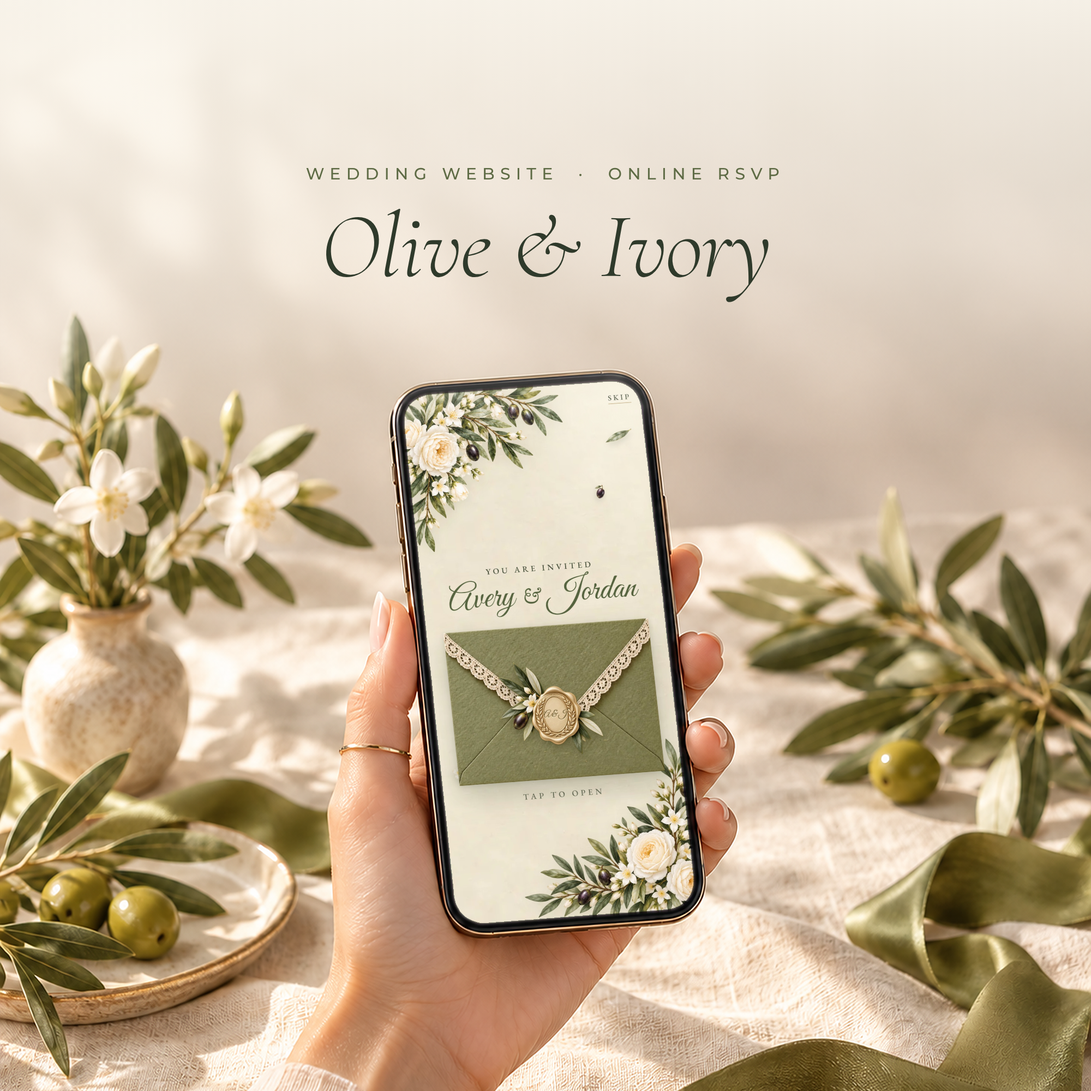
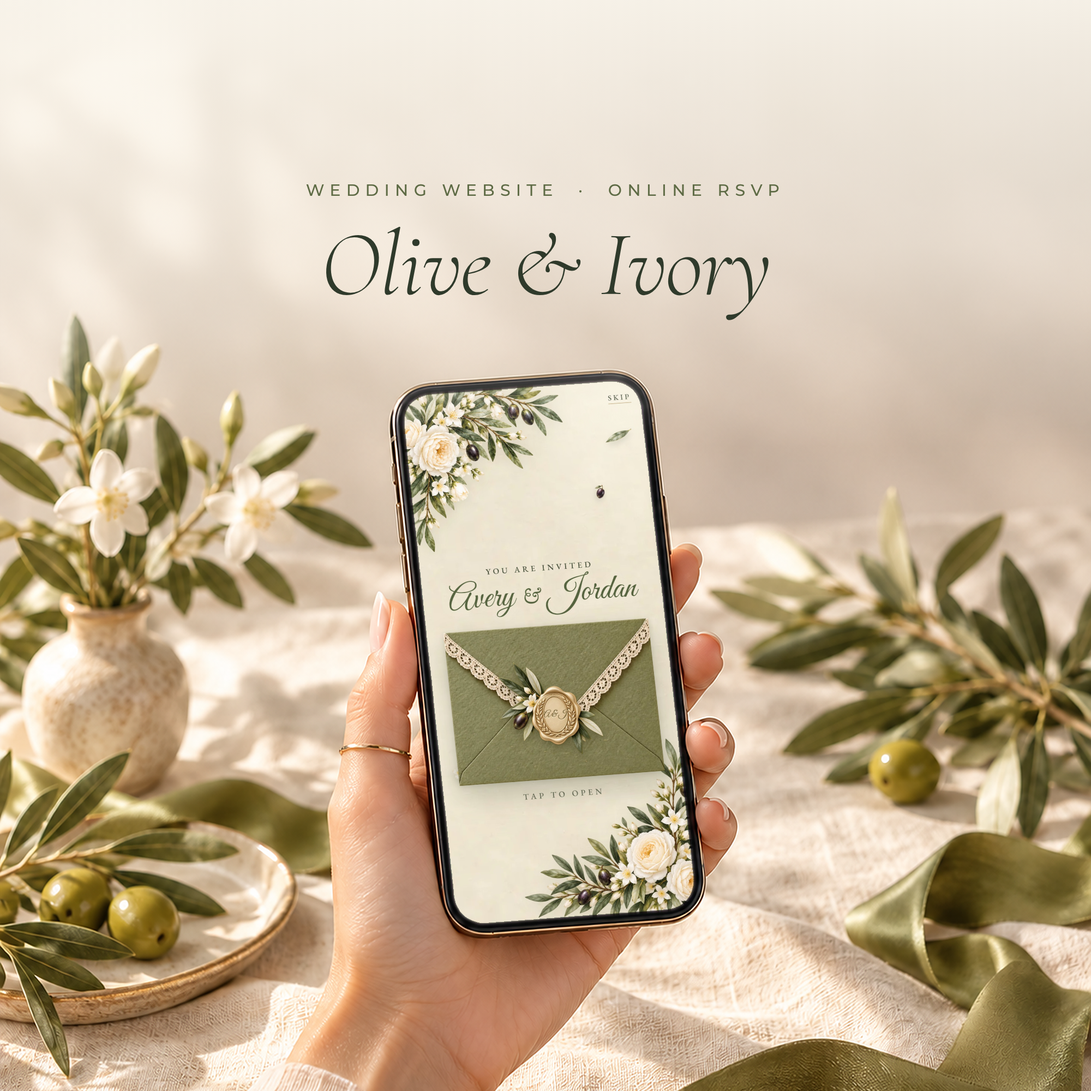
İlan görselleri v4: 5 tasarımın editoryal setleri (8 × 2000 px)
- Her tema için DPR 3 açılış kareleri (open_mid, open_card) elle seçildi; seçim opening_stills.json'da
- Uzun tasarım adları kapakta iki satır; 8. görselde yazı sütunu arkasında kâğıt geçişi (koyu masa sahneleri)

Claude-Session: https://claude.ai/code/session_01NL22v945FuPy8MhEt9Xdyu

Changed region(s): [[0.279, 0.155, 0.527, 0.279], [0.558, 0.155, 0.713, 0.279]]

diff --git a/tools/listing_editorial/templates/editorial.css b/tools/listing_editorial/templates/editorial.css
@@ -27,6 +27,9 @@ body {
 .veil-bottom { position: absolute; left: 0; right: 0; bottom: 0; height: var(--h, 520px);
   background: linear-gradient(to top, color-mix(in srgb, var(--paper) 90%, transparent) 0%,
               color-mix(in srgb, var(--paper) 50%, transparent) 60%, transparent 100%); }
+.veil-left { position: absolute; top: 0; bottom: 0; left: 0; width: var(--w, 1100px);
+  background: linear-gradient(to right, color-mix(in srgb, var(--paper) 94%, transparent) 0%,
+              color-mix(in srgb, var(--paper) 86%, transparent) 70%, transparent 100%); }
 .panel { position: absolute; top: 0; bottom: 0; background: var(--paper-img, none) center / cover, var(--paper); }
 .panel::after { content: ""; position: absolute; inset: 0; background: color-mix(in srgb, var(--paper) 55%, transparent); }
 

diff --git a/tools/listing_editorial/templates/01_cover.html b/tools/listing_editorial/templates/01_cover.html
@@ -2,5 +2,5 @@
 <div class="veil-top" style="--h:{{veil_h}}px"></div>
 <div class="abs center" style="left:0;right:0;top:{{text_top}}px">
   <div class="kicker">Wedding website &nbsp;·&nbsp; Online RSVP</div>
-  <div class="display" style="font-size:{{title_px}}px;margin-top:30px"><em>{{theme_name}}</em></div>
+  <div class="display" style="font-size:{{title_px}}px;line-height:1.04;margin-top:30px;white-space:pre-line"><em>{{title}}</em></div>
 </div>

diff --git a/tools/listing_editorial/templates/08_included.html b/tools/listing_editorial/templates/08_included.html
@@ -1,4 +1,5 @@
 <div class="bg" style="background-image:url({{scene.bg}})"></div>
+<div class="veil-left" style="--w:{{veil_w}}px"></div>
 <div class="abs" style="left:{{col_left}}px;top:{{col_top}}px;width:{{col_w}}px">
   <div class="kicker">What's included</div>
   <div class="display" style="font-size:116px;margin-top:28px">Your wedding<br><em>website</em></div>

diff --git a/tools/listing_editorial.py b/tools/listing_editorial.py
@@ -123,9 +123,16 @@ def build(t: lk.Theme, only: list[str] | None) -> list[Path]:
                 scene = Image.open(scene_file(t, "cover_hand_v2.png", "cover_hand.png"))
                 r0 = kz.ekran_bolgeleri(scene)[0]
                 k = 2000 / scene.width
-                place(scene, k, 0, 700 - r0["kutu"][1] * k, [shot(shots, "g01_envelope")], bg)
-                v.update({"scene.bg": bg.resolve().as_uri(), "veil_h": "820", "text_top": "330",
-                          "title_px": str(min(170, round(170 * 13 / max(13, len(t.name)))))})
+                # names up to 16 characters on one line; longer ones on two lines ("Vintage Airmail / Love Letter")
+                words = t.name.split()
+                if len(t.name) <= 16:
+                    title, size, screen_top = t.name, 170, 700
+                else:
+                    cut = min(range(1, len(words)), key=lambda i: abs(len(" ".join(words[:i])) - len(t.name) / 2))
+                    title, size, screen_top = " ".join(words[:cut]) + "\n" + " ".join(words[cut:]), 140, 820
+                place(scene, k, 0, screen_top - r0["kutu"][1] * k, [shot(shots, "g01_envelope")], bg)
+                v.update({"scene.bg": bg.resolve().as_uri(), "veil_h": str(screen_top + 120), "text_top": "330",
+                          "title": title, "title_px": str(size)})
             elif name == "02_opening":
                 scene = Image.open(scene_file(t, "three_phones.png"))
                 regs = kz.ekran_bolgeleri(scene)
@@ -182,8 +189,9 @@ def build(t: lk.Theme, only: list[str] | None) -> list[Path]:
                 col_w = placed[0]["kutu"][0] - 120 - 110
                 if col_w < 700:
                     raise RuntimeError(f"{t.folder}: only {col_w} px left of the phone for the text column (need 700)")
+                # a paper wash behind the text column, ending before the phone (dark tables: 04's wood)
                 v.update({"scene.bg": bg.resolve().as_uri(), "col_left": "120", "col_top": "250",
-                          "col_w": str(min(820, col_w))})
+                          "col_w": str(min(820, col_w)), "veil_w": str(placed[0]["kutu"][0] - 40)})
             body = lk.fill((TPL / f"{name}.html").read_text(encoding="utf-8"), v,
                            raw=frozenset({"screens", "steps"}))
             page = ("<!doctype html><html><head><meta charset='utf-8'><link rel='stylesheet' href='editorial.css'>"
